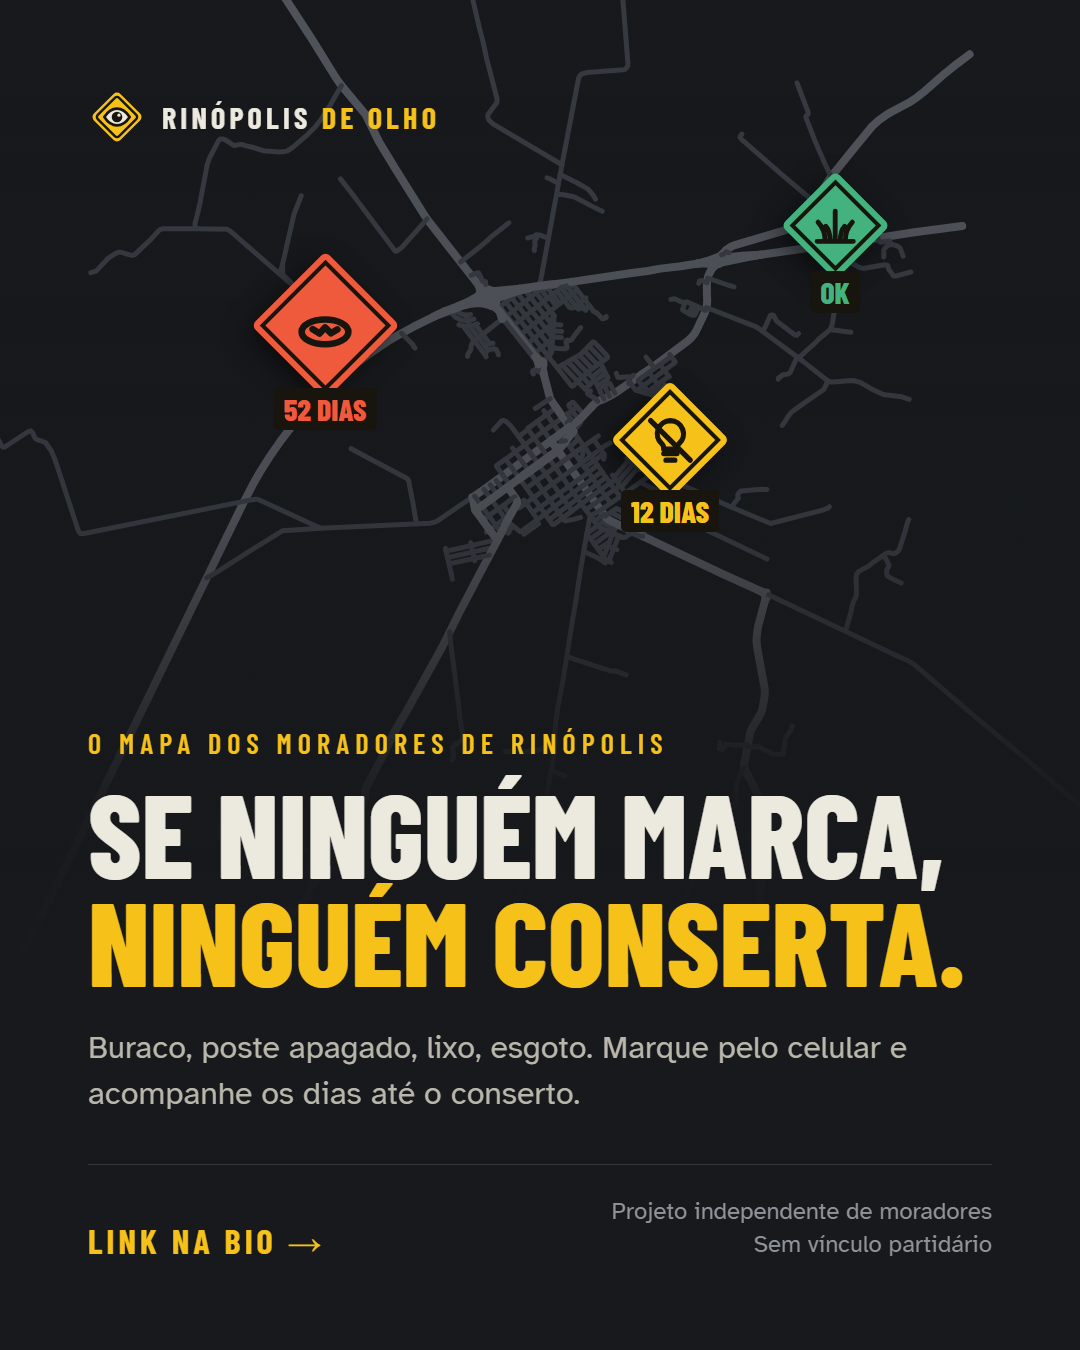
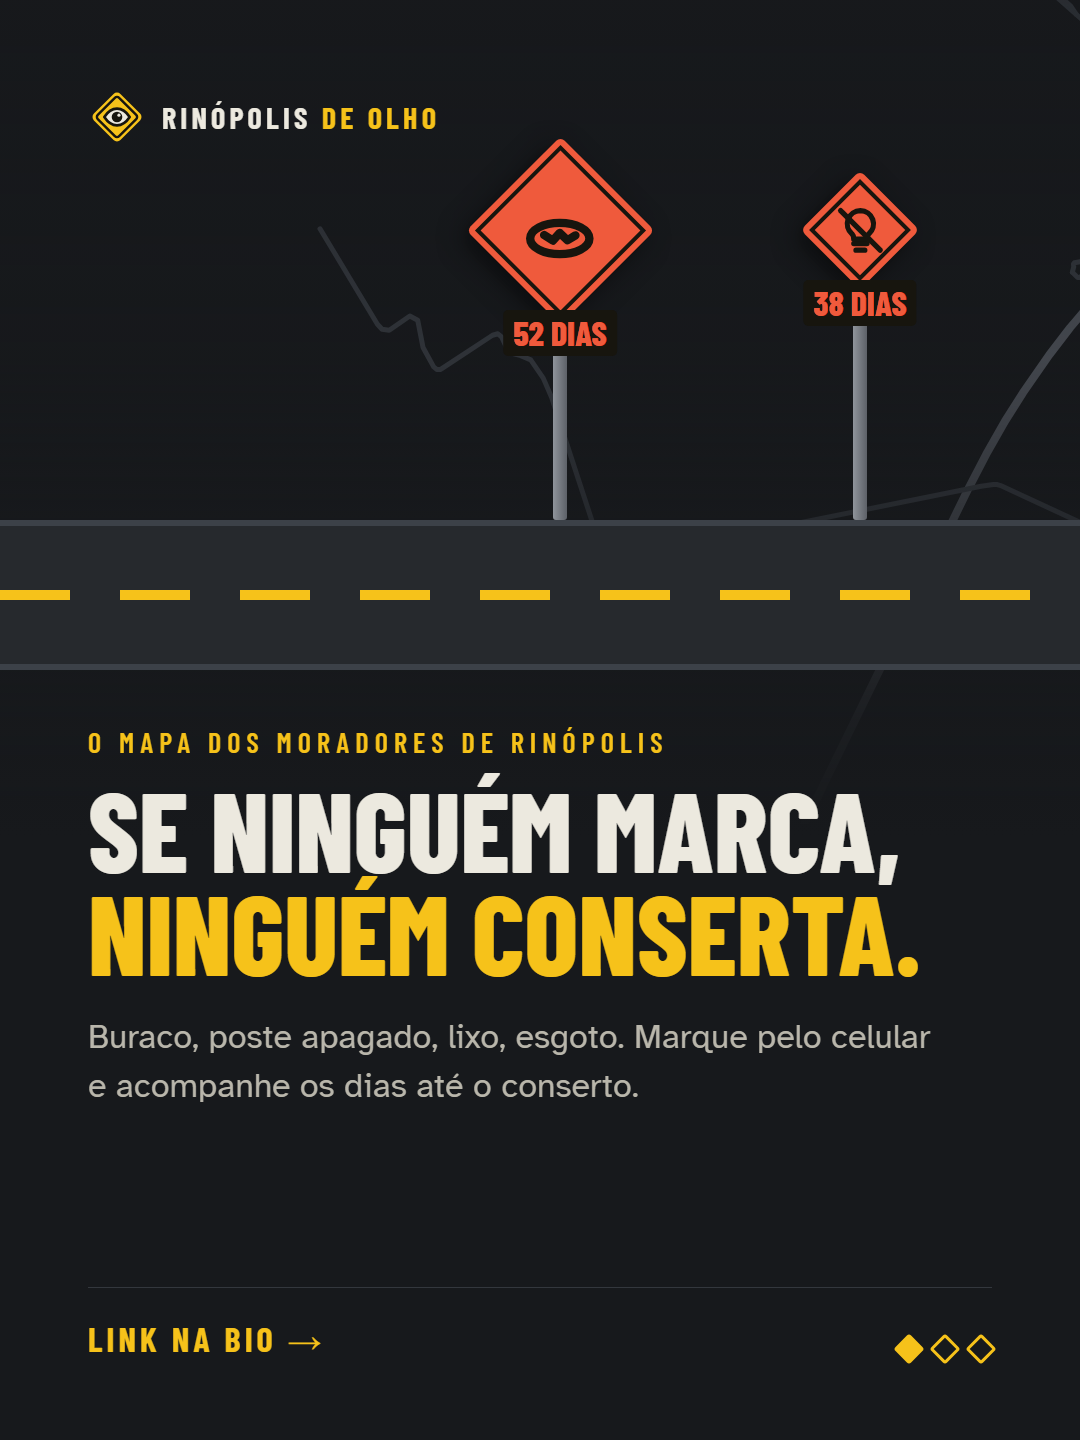
feat(insta): os 3 posts fixados viram um painel so, com a mesma rua atravessando os tres (3:4)

diff --git a/gerar_insta.py b/gerar_insta.py
@@ -124,63 +124,97 @@ pagina('logo-com-nome', f'''<div style="position:absolute;inset:0;display:flex;a
        '.marca small{display:block;font-family:"Barlow Condensed";font-weight:700;font-size:62px;letter-spacing:.2em;color:#f6c21a;line-height:1}'
        '.marca strong{display:block;font-family:"Barlow Condensed";font-weight:800;font-size:170px;line-height:.9}', 1200, 420, 'transparent')
 
-# ---------- post 1: a chamada ----------
-pagina('post-1-chamada', mapa() + f'''
-<div class="solto" style="left:250px;top:250px">{pino('buraco', 'velho', '52 DIAS', 150)}</div>
-<div class="solto" style="left:610px;top:380px">{pino('luz', '', '12 DIAS', 120)}</div>
-<div class="solto" style="left:780px;top:170px">{pino('mato', 'feito', 'OK', 110)}</div>
-<div class="m">{MARCA}<div class="txt">
-  <div class="eti">O mapa dos moradores de Rinópolis</div>
-  <h1 style="font-size:118px">Se ninguém marca,<br><em>ninguém conserta.</em></h1>
-  <p class="sub">Buraco, poste apagado, lixo, esgoto. Marque pelo celular e acompanhe os dias até o conserto.</p>
-  {RODAPE}</div></div>''')
+# ---------- os 3 posts fixados: um painel só, cortado em 3 ----------
+# No perfil os 3 ficam lado a lado e a mesma rua atravessa os três; sozinho, cada um continua completo.
+# Formato 3:4 (1080x1440), o mesmo da grade do perfil: nada é cortado e a rua emenda certinho.
+L, A = 1080, 1440
+RUA_Y, RUA_H = 520, 150          # faixa da rua (topo e altura)
 
-# ---------- post 2: como funciona ----------
+
+def placa(x, tipo, estado, rotulo, tam=170):
+    """Placa de rua fincada na calçada de cima, com o poste descendo até o asfalto."""
+    poste = RUA_Y - 330
+    return (f'<div class="poste" style="left:{x - 7}px;top:{poste + tam // 2}px;height:{RUA_Y - poste - tam // 2}px"></div>'
+            f'<div class="solto" style="left:{x - tam // 2}px;top:{poste - tam // 2 + 40}px">{pino(tipo, estado, rotulo, tam)}</div>')
+
+
+def painel(n, eti, titulo, tam_titulo, corpo):
+    marcas = ''.join(f'<i class="{"on" if k == n else ""}"></i>' for k in (1, 2, 3))
+    return f'''<div class="m" style="left:{(n - 1) * L}px;width:{L}px">{MARCA}<div class="txt">
+  <div class="eti">{eti}</div>
+  <h1 style="font-size:{tam_titulo}px">{titulo}</h1>
+  {corpo}
+  <div class="pe"><b>Link na bio →</b><span class="seq">{marcas}</span></div></div></div>'''
+
+
 passos = [
     'Toque em <b>Marcar problema</b> e arraste o mapa até o alfinete ficar no lugar.',
     'Escolha o tipo e, se quiser, mande uma <b>foto</b>.',
     'Os vizinhos <b>confirmam</b>, e a placa conta os dias até o conserto.',
 ]
-lista = ''.join(f'<li><span class="num">{i}</span><p>{t}</p></li>' for i, t in enumerate(passos, 1))
-tipos = ''.join(f'<div class="tp">{pino(k, "", "", 92)}<span>{NOMES[k]}</span></div>' for k in ICONE)
-pagina('post-2-como-funciona', mapa(330, 1300, (10, 18, 30, 38)) + f'''
-<div class="m">{MARCA}
-  <div class="tipos">{tipos}</div>
-  <div class="txt">
-  <div class="eti">Como funciona</div>
-  <h1 style="font-size:104px">Marque em <em>3 passos</em></h1>
-  <ol class="passos">{lista}</ol>
-  {RODAPE}</div></div>''',
-       '.tipos{display:grid;grid-template-columns:repeat(6,1fr);gap:4px;margin-top:240px}'
-       '.tp{display:flex;flex-direction:column;align-items:center;gap:2px}.tp span{font-size:21px;color:#b9b6ab;text-align:center}'
-       '.passos{list-style:none;padding:0;margin-top:40px;display:flex;flex-direction:column;gap:26px}'
-       '.passos li{display:grid;grid-template-columns:72px 1fr;gap:26px;align-items:center}'
-       '.num{width:68px;height:68px;display:grid;place-items:center;font-family:"Barlow Condensed";font-weight:800;font-size:40px;color:#17150e;position:relative;isolation:isolate}'
-       '.num::before{content:"";position:absolute;inset:7px;background:#f6c21a;transform:rotate(45deg);border-radius:5px;z-index:-1}'
-       '.passos p{font-size:32px;line-height:1.35;color:#b9b6ab}.passos b{color:#ece9df}')
-
-# ---------- post 3: como cuidamos ----------
 itens = [
     'Seu nome <b>não aparece</b> no mapa.',
     'Fotos e frases são <b>conferidas</b> antes de publicar.',
     'Os números das contas vêm de <b>fontes oficiais</b>.',
     '<b>Não apoiamos nem atacamos</b> nenhum político.',
 ]
+lista = ''.join(f'<li><span class="num">{i}</span><p>{t}</p></li>' for i, t in enumerate(passos, 1))
 cuidados = ''.join(f'<li><span class="ok"></span><p>{t}</p></li>' for t in itens)
-pagina('post-3-sem-partido', mapa(380, 1180, (10, 22, 40, 50)) + f'''
-<div class="m">{MARCA}<div class="txt">
-  <div class="eti">Como cuidamos</div>
-  <h1 style="font-size:124px">Sem partido.<br><em>Sem patrão.</em></h1>
-  <ul class="cuid">{cuidados}</ul>
-  <p class="nota">Termos de uso e política de privacidade no site.</p>
-  {RODAPE}</div></div>''',
-       '.cuid{list-style:none;padding:0;margin-top:40px;display:flex;flex-direction:column;gap:22px}'
+
+MAPA_LARGO = f'''<canvas id="c" width="{3 * L}" height="{A}"></canvas>
+<script src="ruas.js"></script>
+<script>
+const M = window.MAPA, g = document.getElementById('c').getContext('2d'), KX = Math.cos(M.lat0*Math.PI/180);
+let minx=1e9,maxx=-1e9,miny=1e9,maxy=-1e9; const ruas=[];
+for (const [ni,k,f] of M.ruas) {{ const l=[]; for (let j=0;j<f.length;j+=2) {{ const x=f[j+1]*KX, y=-f[j]; l.push([x,y]);
+  if (k===2) {{ minx=Math.min(minx,x);maxx=Math.max(maxx,x);miny=Math.min(miny,y);maxy=Math.max(maxy,y); }} }} ruas.push([k,l]); }}
+const cx=(minx+maxx)/2, cy=(miny+maxy)/2, esc=2600/(maxx-minx);
+g.lineCap='round'; g.lineJoin='round';
+for (const [k,l] of ruas) {{ g.beginPath(); l.forEach(([x,y],i) => {{ const X={3 * L // 2}+(x-cx)*esc, Y=420+(y-cy)*esc; i?g.lineTo(X,Y):g.moveTo(X,Y); }});
+  g.strokeStyle = k<=1 ? '#4a4e55' : '#33373d'; g.lineWidth = k<=1 ? 8 : 5; g.stroke(); }}
+</script>
+<div class="veu" style="background:linear-gradient(180deg,rgba(23,25,28,.35) 0%,rgba(23,25,28,.15) 25%,rgba(23,25,28,.9) 50%,#17191c 58%)"></div>
+<div class="rua"><i class="meio"></i></div>'''
+
+pagina('_painel', MAPA_LARGO
+       + placa(560, 'buraco', 'velho', '52 DIAS', 190) + placa(860, 'luz', 'velho', '38 DIAS', 120)
+       + placa(1640, 'buraco', '', 'HOJE', 190)
+       + placa(2700, 'buraco', 'feito', 'CONSERTADO', 190) + placa(2380, 'luz', 'feito', 'OK', 120)
+       + painel(1, 'O mapa dos moradores de Rinópolis', 'Se ninguém marca,<br><em>ninguém conserta.</em>', 112,
+                '<p class="sub">Buraco, poste apagado, lixo, esgoto. Marque pelo celular e acompanhe os dias até o conserto.</p>')
+       + painel(2, 'Como funciona', 'Marque em<br><em>3 passos.</em>', 112, f'<ol class="passos">{lista}</ol>')
+       + painel(3, 'Como cuidamos', 'Sem partido.<br><em>Sem patrão.</em>', 112,
+                f'<ul class="cuid">{cuidados}</ul>'),
+       '.m{top:0;bottom:0;right:auto;padding:88px 88px 80px}'
+       '.txt{margin-top:0;position:absolute;left:88px;right:88px;top:725px;bottom:80px}'
+       '.txt .pe{position:absolute;left:0;right:0;bottom:0;margin:0}'
+       f'.rua{{position:absolute;left:0;right:0;top:{RUA_Y}px;height:{RUA_H}px;background:#26292d;border-top:6px solid #3c4148;border-bottom:6px solid #3c4148}}'
+       '.rua .meio{position:absolute;left:0;right:0;top:50%;height:10px;margin-top:-5px;background:repeating-linear-gradient(90deg,#f6c21a 0 70px,transparent 70px 120px)}'
+       '.poste{position:absolute;width:14px;background:linear-gradient(90deg,#8f949b,#5d6168);border-radius:3px}'
+       '.dias{font-size:34px}'
+       '.sub{font-size:34px}'
+       '.seq{display:flex;gap:14px}.seq i{width:22px;height:22px;transform:rotate(45deg);border:3px solid #f6c21a;border-radius:3px}.seq i.on{background:#f6c21a}'
+       '.passos{list-style:none;padding:0;margin-top:32px;display:flex;flex-direction:column;gap:18px}'
+       '.passos li{display:grid;grid-template-columns:72px 1fr;gap:26px;align-items:center}'
+       '.num{width:68px;height:68px;display:grid;place-items:center;font-family:"Barlow Condensed";font-weight:800;font-size:40px;color:#17150e;position:relative;isolation:isolate}'
+       '.num::before{content:"";position:absolute;inset:7px;background:#f6c21a;transform:rotate(45deg);border-radius:5px;z-index:-1}'
+       '.passos p{font-size:31px;line-height:1.35;color:#b9b6ab}.passos b{color:#ece9df}'
+       '.cuid{list-style:none;padding:0;margin-top:36px;display:flex;flex-direction:column;gap:20px}'
        '.cuid li{display:grid;grid-template-columns:56px 1fr;gap:22px;align-items:center}'
        '.ok{width:50px;height:50px;position:relative}'
        '.ok::before{content:"";position:absolute;inset:7px;background:#43b27e;transform:rotate(45deg);border-radius:4px}'
        '.ok::after{content:"";position:absolute;left:17px;top:12px;width:11px;height:19px;border:solid #17150e;border-width:0 5px 5px 0;transform:rotate(45deg)}'
-       '.cuid p{font-size:32px;line-height:1.35;color:#b9b6ab}.cuid b{color:#ece9df}'
-       '.nota{font-size:24px;color:#8f949b;margin-top:30px}')
+       '.cuid p{font-size:31px;line-height:1.35;color:#b9b6ab}.cuid b{color:#ece9df}',
+       3 * L, A)
+
+from PIL import Image
+inteiro = Image.open(SAIDA / '_painel.png').convert('RGB')
+for k, nome in enumerate(('post-1-chamada', 'post-2-como-funciona', 'post-3-sem-partido')):
+    inteiro.crop((k * L, 0, (k + 1) * L, A)).save(SAIDA / (nome + '.png'))
+    print('ok', nome + '.png')
+# o painel inteiro fica salvo pra conferir como o perfil vai ficar
+inteiro.resize((3 * L // 2, A // 2)).save(SAIDA / 'perfil-previa.jpg', quality=88)
+(SAIDA / '_painel.png').unlink()
 
 shutil.rmtree(PAGINAS, ignore_errors=True)
 print('Imagens em', SAIDA)
